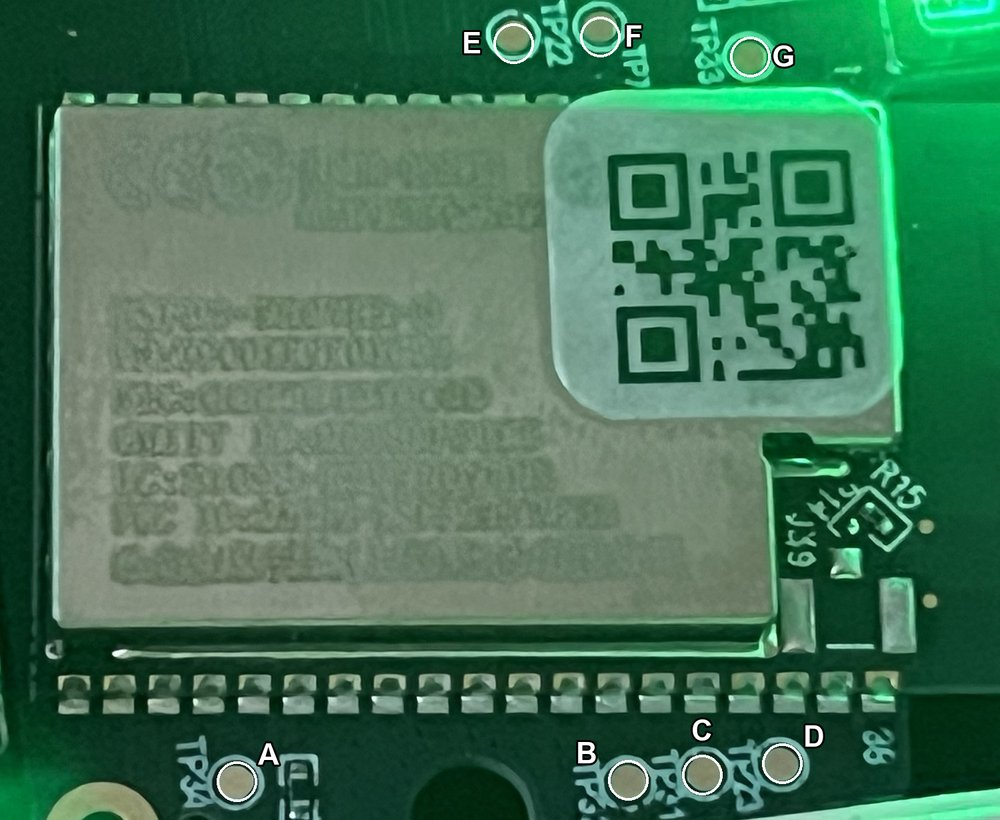
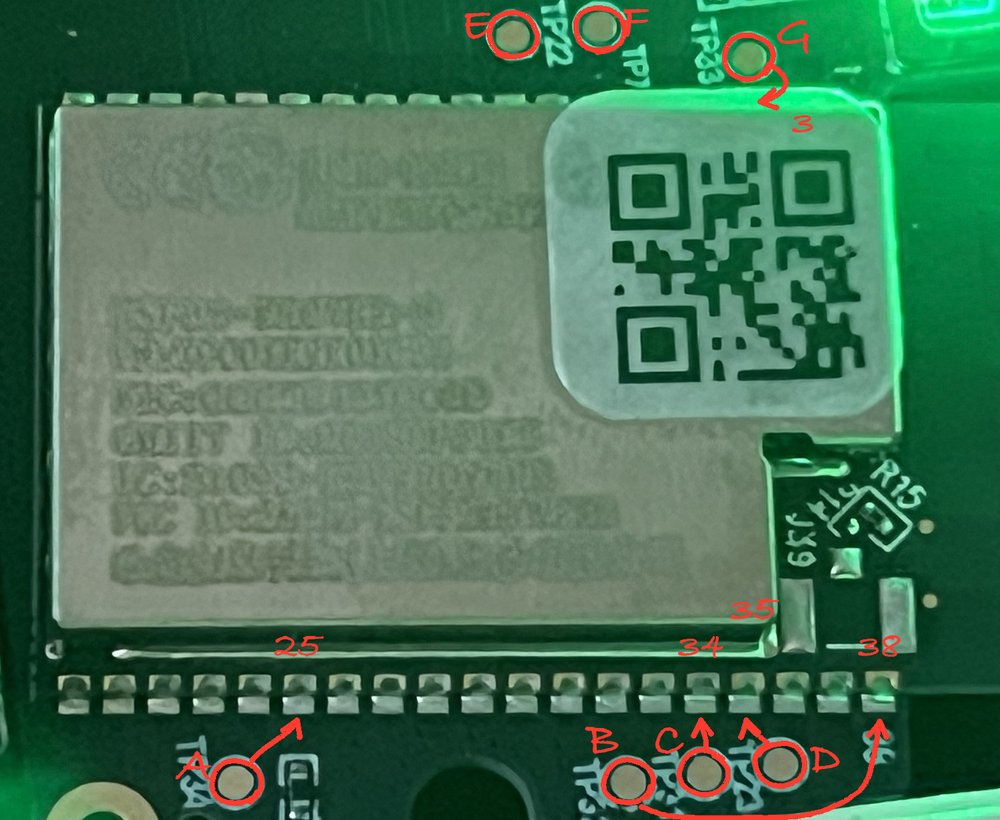
docs: pad photo marked by hand, with arrows to the module pins
Circles sit on the measured pad centres; arrows go to pins 25, 34, 35, 38
and 3 (EN, hidden under the module edge).

diff --git a/docs/install.md b/docs/install.md
@@ -151,7 +151,7 @@ board are the battery and the connectors to the rest of the device.
 
 The pads are next to the ESP32 module. The letters are the names this guide uses for them.
 
-![Pad letters on the board](images/pads.jpg)
+![Pad letters on the board, arrows to the module pin each pad joins](images/pads.jpg)
 
 | Pad | What it is | Where |
 |---|---|---|
